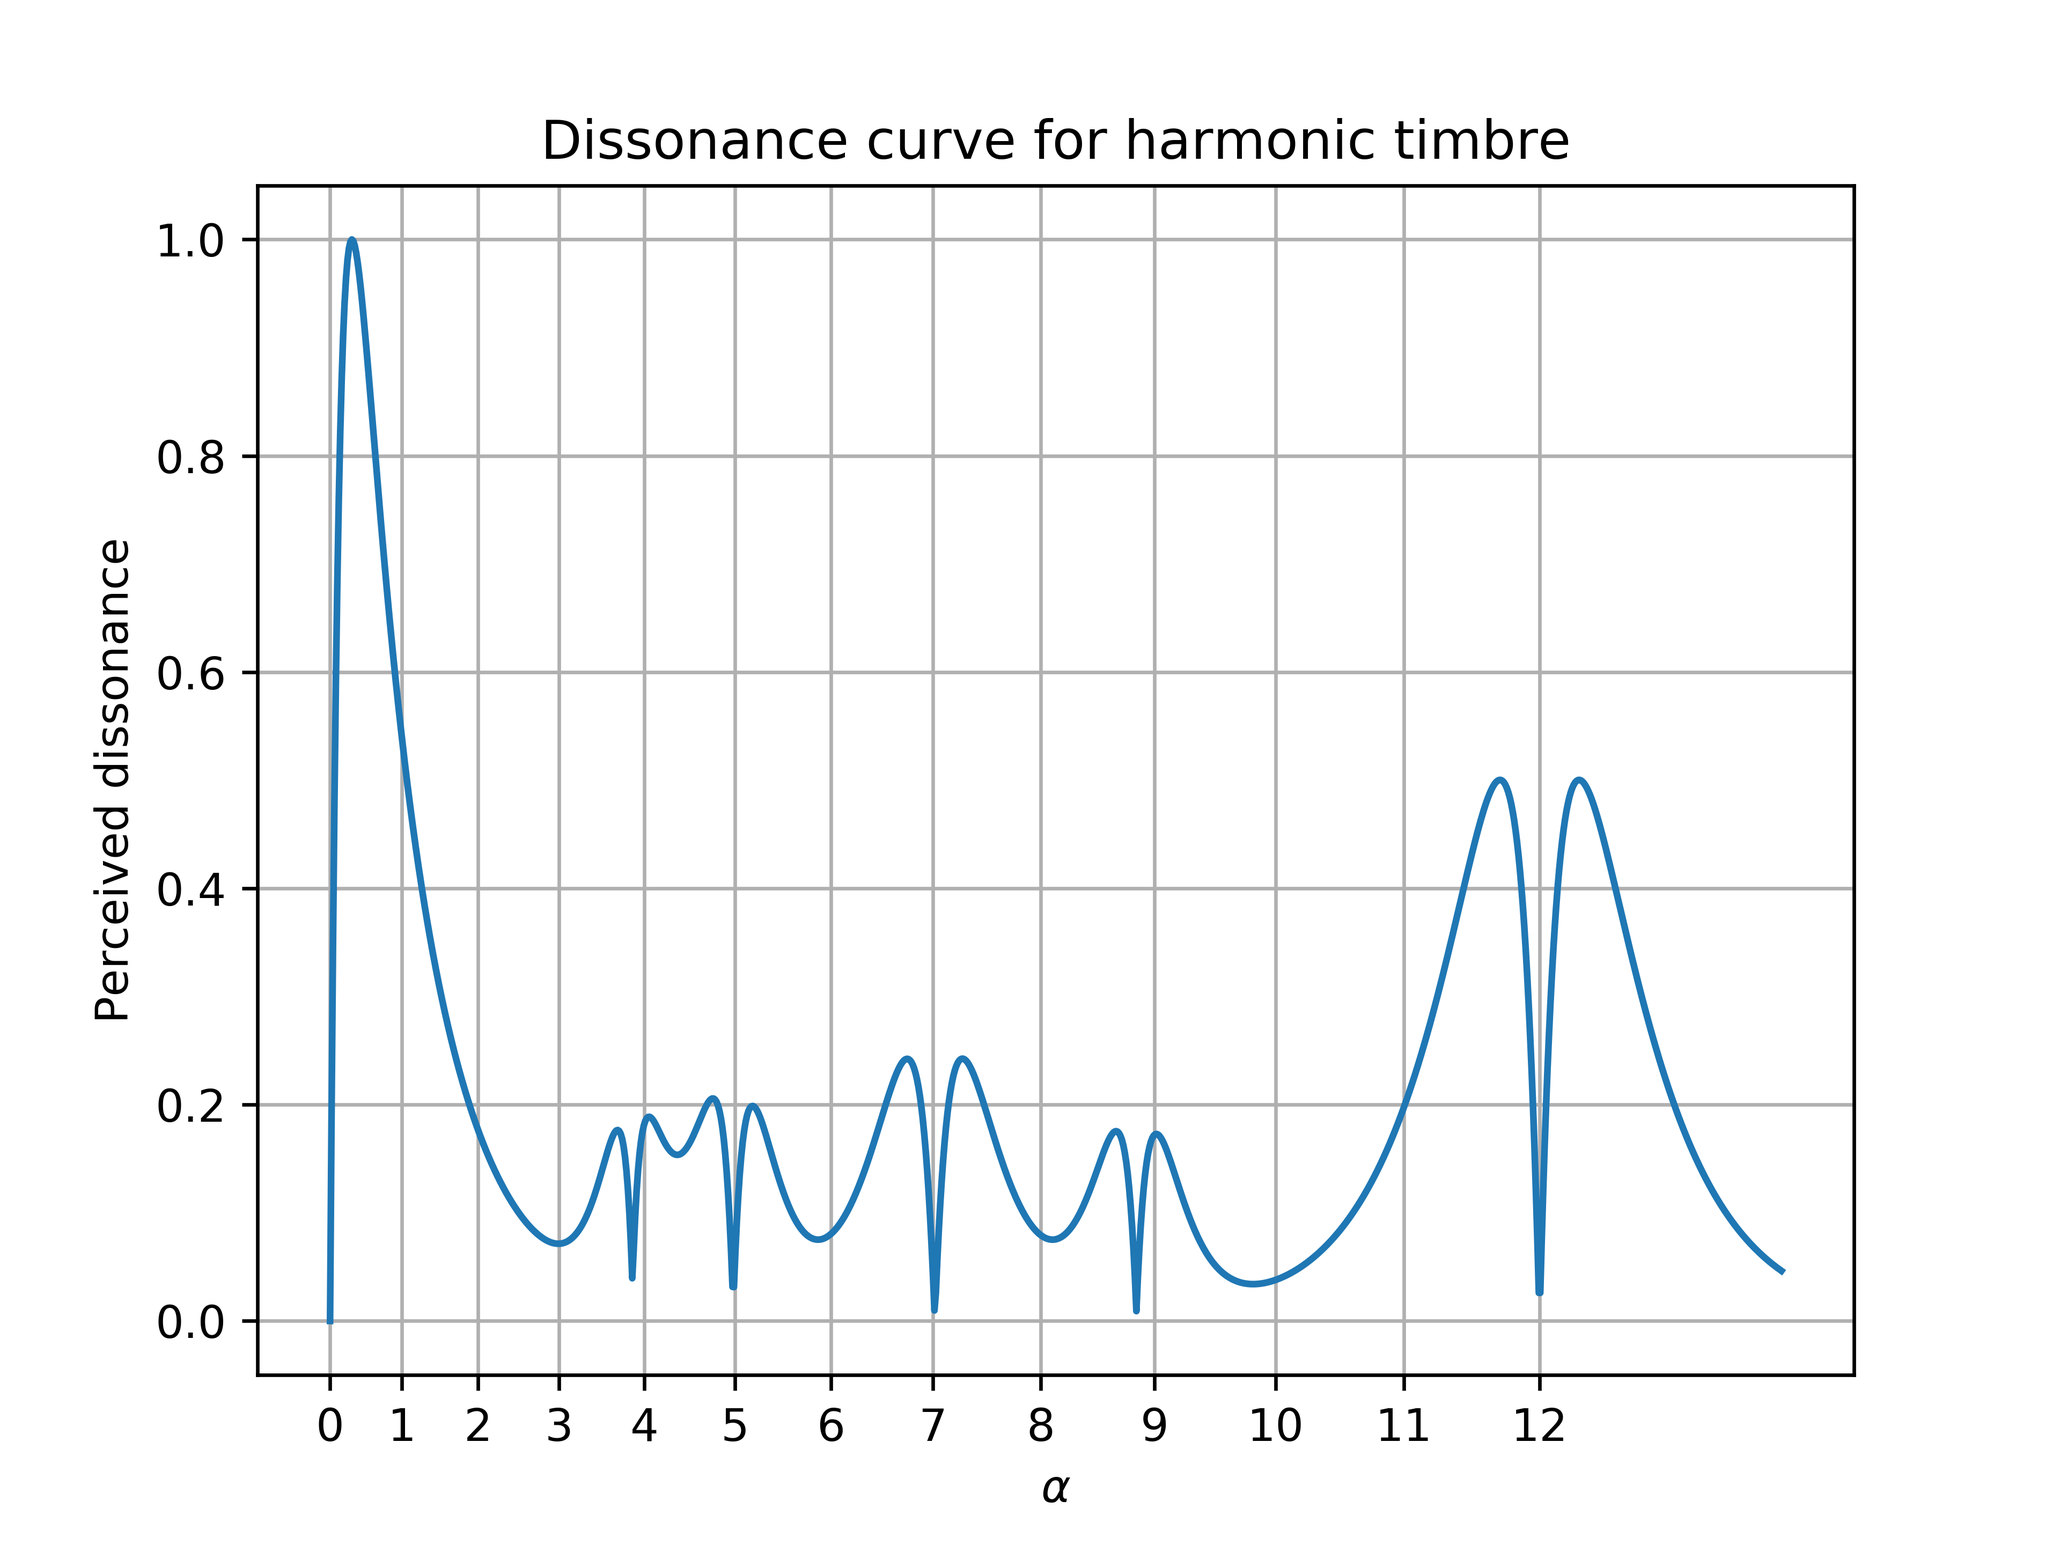
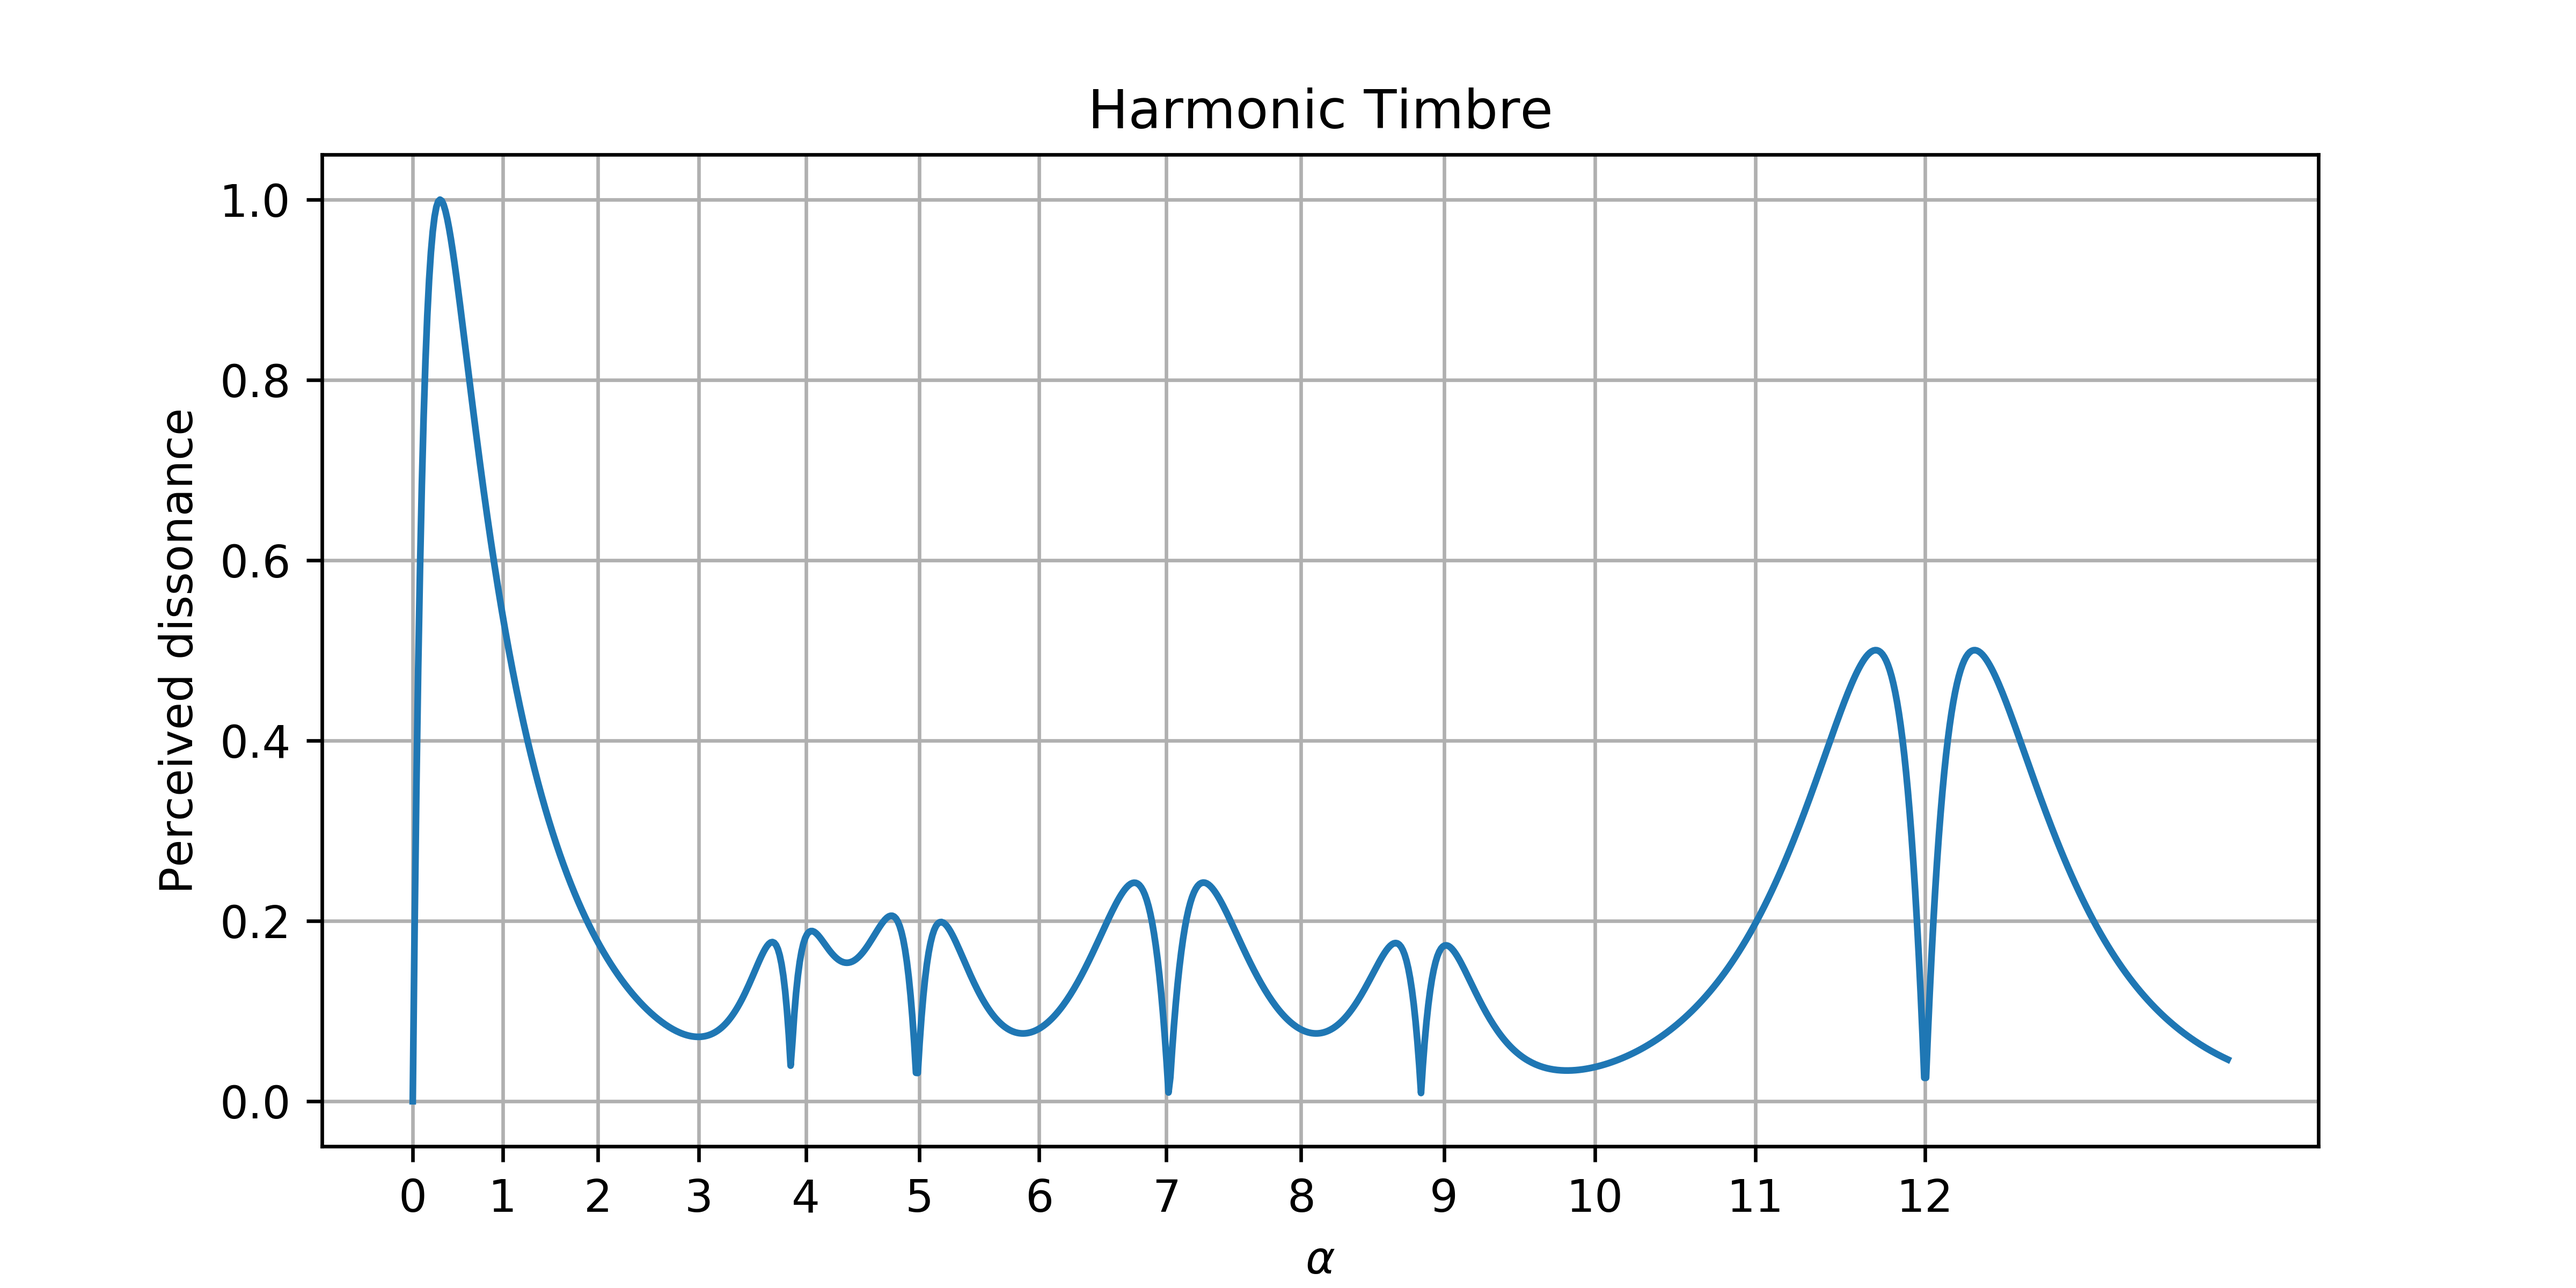
Make dissonance curve module

diff --git a/harmonic_curves.py b/harmonic_curves.py
@@ -13,28 +13,12 @@ import numpy as np
 import timbre
 import model
 
+import curves
+
 # Make instruments
 r = 0.88
 HarmonicInst = timbre.Instrument((1, 2, 3, 4, 5), [r**i for i in range(5)], name = 'Harmonic')
 
 Harmonic = HarmonicInst(440)
 
-alpha = np.linspace(1, 2.2, 1000)
-
-disson = np.array([model.DF(Harmonic.F, Harmonic.V, a) for a in alpha])
-disson /= disson.max()
-
-fig, ax = plt.subplots()
-
-ax.set_title('Dissonance curve for harmonic timbre')
-
-ax.set_xlabel('$\\alpha$')
-ax.set_ylabel('Perceived dissonance')
-
-ax.plot(alpha, disson)
-
-ax.set_xticks([2**(i/12.) for i in range(13)])
-ax.set_xticklabels([str(i) for i in range(13)])
-ax.grid()
-
-fig.savefig('harmonic_dissonance_curve.png', dpi = 600)
+curves.dissonance_curve(Harmonic, 'harmonic_dissonance_curve.png', title = 'Harmonic Timbre')

diff --git a/curves.py b/curves.py
@@ -1,0 +1,33 @@
+"""
+
+    curves.py
+
+    Module to make it easy to make dissonance curves
+
+"""
+
+from matplotlib import pyplot as plt
+
+import numpy as np
+
+import model
+
+def dissonance_curve(T, figname, title = 'Dissonance curve'):
+    alpha = np.linspace(1, 2.2, 1000)
+    dissonance = np.array([model.DF(T.F, T.V, a) for a in alpha])
+    dissonance /= dissonance.max()
+
+    fig, ax = plt.subplots(figsize = (8, 4))
+
+    ax.set_title(title)
+
+    ax.set_xlabel('$\\alpha$')
+    ax.set_ylabel('Perceived dissonance')
+
+    ax.plot(alpha, dissonance)
+
+    ax.set_xticks([2**(i/12.) for i in range(13)])
+    ax.set_xticklabels([str(i) for i in range(13)])
+    ax.grid()
+
+    fig.savefig(figname, dpi = 600)

diff --git a/anharmonic_curves.py b/anharmonic_curves.py
@@ -1,0 +1,25 @@
+"""
+
+    anharmonic_curves.py
+
+    Script to plot dissonance curves for a simulated anharmonic instrument
+
+"""
+
+from matplotlib import pyplot as plt
+
+import numpy as np
+
+import timbre
+import model
+
+import curves
+
+# Make instruments
+r = 0.88
+F = (1, np.sqrt(2), np.sqrt(3), np.sqrt(5), np.sqrt(7))
+HarmonicInst = timbre.Instrument(F, [r**i for i in range(5)], name = 'Harmonic')
+
+Harmonic = HarmonicInst(440)
+
+curves.dissonance_curve(Harmonic, 'anharmonic_dissonance_curve.png', title = 'Anharmonic Timbre')
